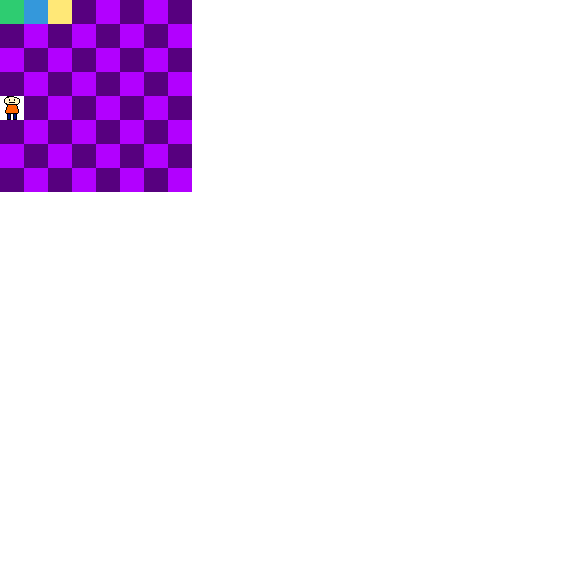
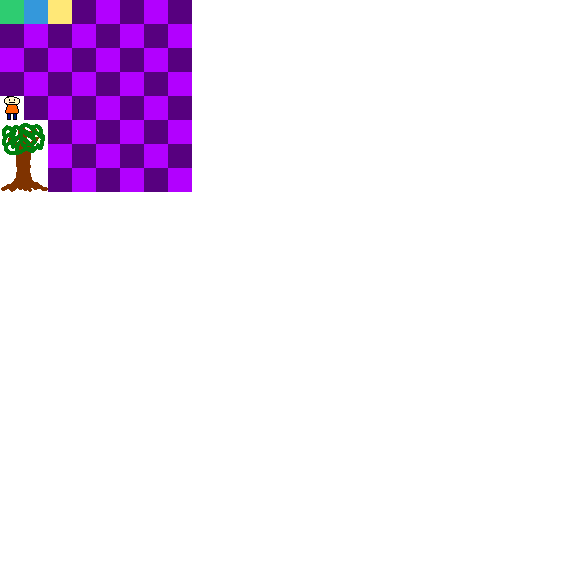
Add tree and depth sorting

Changed region(s): [[0.0, 0.1875, 0.0938, 0.3438]]

diff --git a/LD30/Game.cs b/LD30/Game.cs
@@ -21,14 +21,14 @@ namespace LD30
         public const int TilemapScale = 3;
         public const int TileSize = TilemapSize * TilemapScale;
 
-        List<GameObject> gameObjects = new List<GameObject>();
+        SortedDictionary<int, List<GameObject>> gameObjects = new SortedDictionary<int, List<GameObject>>();
         OverWorld overWorld;
         Player player;
 
         public Game()
             : base(null)
         {
-            MainWindow = new RenderWindow(new VideoMode(1024, 768), "LD30", Styles.Close, new ContextSettings() { AntialiasingLevel = 0 });
+            MainWindow = new RenderWindow(new VideoMode(1600, 900), "LD30", Styles.Close, new ContextSettings() { AntialiasingLevel = 0 });
         }
 
         public Game Init()
@@ -36,18 +36,27 @@ namespace LD30
             ResourceManager.LoadResource<Image>("assets/tilemap.png", "tilemapImg");
             ResourceManager.DeriveResource<Image, Texture>("tilemapImg", "tilemapTex", s => new Texture(s));
             ResourceManager.DeriveResource<Texture, Sprite>("tilemapTex", "playerSpr", s => Utility.CreateSubSprite(s, TilemapSize, TilemapSize, 0, 4));
+            ResourceManager.DeriveResource<Texture, Sprite>("tilemapTex", "treeSpr", s => Utility.CreateSubSprite(s, TilemapSize, TilemapSize, 0, 5, 2, 3));
 
             ResourceManager.LoadResource<Image>("assets/overworld.png", "overworldImg");
 
             overWorld = new OverWorld(this, ResourceManager.GetResource<Image>("overworldImg"));
-            gameObjects.Add(overWorld);
+            Add(overWorld);
 
             player = new Player(this, ResourceManager.GetResource<Sprite>("playerSpr"));
-            gameObjects.Add(player);
+            Add(player, 1);
 
             player.Position = overWorld.SpawnPosition;
 
             return this;
+        }
+
+        public void Add(GameObject obj, int layer = 0)
+        {
+            if (!gameObjects.ContainsKey(layer))
+                gameObjects.Add(layer, new List<GameObject>());
+
+            gameObjects[layer].Add(obj);
         }
 
         public void Run()
@@ -72,17 +81,36 @@ namespace LD30
 
         public override void Update(float dt)
         {
-            foreach (var obj in gameObjects)
+            foreach (var pair in gameObjects)
             {
-                obj.Update(dt);
+                foreach (var obj in pair.Value)
+                {
+                    obj.Update(dt);
+                }
+            }
+
+            var color = overWorld.GetColorAtWorldPosition(player.WorldCenter);
+            if (Utility.ColorEquals(color, Color.Blue))
+            {
+                player.SpeedModifier = 0.5f;
+                player.HalfVertical = true;
+            }
+            else
+            {
+                player.SpeedModifier = 1f;
+                player.HalfVertical = false;
             }
         }
 
         public override void Draw(RenderTarget target)
         {
-            foreach (var obj in gameObjects)
+            foreach (var pair in gameObjects)
             {
-                obj.Draw(target);
+                pair.Value.Sort(new Comparison<GameObject>((obj1, obj2) => (int)(obj1.Depth - obj2.Depth)));
+                foreach (var obj in pair.Value)
+                {
+                    obj.Draw(target);
+                }
             }
         }
     }

diff --git a/LD30/Player.cs b/LD30/Player.cs
@@ -2,6 +2,7 @@
 using SFML.Window;
 using System;
 using System.Collections.Generic;
+using System.Diagnostics;
 using System.Linq;
 using System.Text;
 using System.Threading.Tasks;
@@ -25,7 +26,51 @@ namespace LD30
             }
         }
 
+        public Vector2f WorldCenter
+        {
+            get
+            {
+                return Position + new Vector2f(Game.TileSize / 2f, Game.TileSize / 2f);
+            }
+        }
+
+        bool halfVertical = false;
+        public bool HalfVertical
+        {
+            get
+            {
+                return halfVertical;
+            }
+            set
+            {
+                if (halfVertical == value)
+                    return;
+
+                var rect = sprite.TextureRect;
+                if (value)
+                {
+                    rect.Height = Game.TilemapSize / 2;
+                }
+                else
+                {
+                    rect.Height = Game.TilemapSize;
+                }
+                sprite.TextureRect = rect;
+
+                halfVertical = value;
+            }
+        }
+
+        public override float Depth
+        {
+            get
+            {
+                return Position.Y + Game.TileSize;
+            }
+        }
+
         public float Speed = 1000f;
+        public float SpeedModifier = 1f;
 
         public Player(Game game, Sprite spr)
             : base(game)
@@ -46,8 +91,10 @@ namespace LD30
             if (Keyboard.IsKeyPressed(Keyboard.Key.D))
                 dir.X += 1f;
 
-            dir = dir.Normalize() * Speed * dt;
+            dir = dir.Normalize() * Speed * SpeedModifier * dt;
             Position += dir;
+
+            Debug.WriteLine(Position);
         }
 
         public override void Draw(RenderTarget target)

diff --git a/LD30/World.cs b/LD30/World.cs
@@ -2,6 +2,7 @@
 using SFML.Window;
 using System;
 using System.Collections.Generic;
+using System.Diagnostics;
 using System.Linq;
 using System.Text;
 using System.Threading.Tasks;
@@ -59,6 +60,28 @@ namespace LD30
             }
 
             throw new ArgumentException("Couldn't find the specified color");
+        }
+
+        protected List<Vector2f> findAllWorldPositionForColor(Color findColor)
+        {
+            var finds = new List<Vector2f>();
+            for (int x = 0; x < worldImage.Size.X; x++)
+            {
+                for (int y = 0; y < worldImage.Size.Y; y++)
+                {
+                    var color = worldImage.GetPixel((uint)x, (uint)y);
+                    if (Utility.ColorEquals(color, findColor))
+                        finds.Add(new Vector2f(x * Game.TileSize, y * Game.TileSize));
+                }
+            }
+            return finds;
+        }
+
+        public Color GetColorAtWorldPosition(Vector2f worldPos)
+        {
+            var localPos = worldPos * 1f / Game.TileSize;
+            var color = worldImage.GetPixel((uint)Math.Floor(localPos.X), (uint)Math.Floor(localPos.Y));
+            return color;
         }
 
         public override void Draw(RenderTarget target)

diff --git a/LD30/OverWorld.cs b/LD30/OverWorld.cs
@@ -16,11 +16,21 @@ namespace LD30
             : base(game, worldImage)
         {
             SpawnPosition = findFirstWorldPositionForColor(Color.Black);
+
+            foreach (var treePos in findAllWorldPositionForColor(new Color(127, 64, 0)))
+            {
+                var spr = new Sprite(ResourceManager.GetResource<Sprite>("treeSpr"));
+                spr.Scale = new Vector2f(Game.TilemapScale, Game.TilemapScale);
+                var tree = new Tree(game, spr);
+                tree.Position = treePos;
+               
+                game.Add(tree, 1);
+            }
         }
 
         protected override SFML.Window.Vector2f getTilemapPositionForColor(Color color)
         {
-            if (Utility.ColorEquals(color, Color.Green) || Utility.ColorEquals(color, Color.Black))
+            if (Utility.ColorEquals(color, Color.Green) || Utility.ColorEquals(color, Color.Black) || Utility.ColorEquals(color, new Color(127, 64, 0)))
                 return Utility.GetTilemapPositionForCoords(0, 0);
             else if (Utility.ColorEquals(color, Color.Blue))
                 return Utility.GetTilemapPositionForCoords(1, 0);

diff --git a/LD30/Tree.cs b/LD30/Tree.cs
@@ -1,0 +1,46 @@
+using SFML.Graphics;
+using SFML.Window;
+using System;
+using System.Collections.Generic;
+using System.Linq;
+using System.Text;
+using System.Threading.Tasks;
+
+namespace LD30
+{
+    class Tree : GameObject
+    {
+        Sprite sprite;
+
+        public Vector2f Position
+        {
+            get
+            {
+                return sprite.Position;
+            }
+            set
+            {
+                sprite.Position = value + new Vector2f(0f, -Game.TileSize * 3);
+            }
+        }
+
+        public override float Depth
+        {
+            get
+            {
+                return Position.Y + Game.TileSize * 3;
+            }
+        }
+
+        public Tree(Game game, Sprite spr)
+            : base(game)
+        {
+            this.sprite = spr;
+        }
+
+        public override void Draw(RenderTarget target)
+        {
+            target.Draw(sprite);
+        }
+    }
+}

diff --git a/LD30/Utility.cs b/LD30/Utility.cs
@@ -10,11 +10,11 @@ namespace LD30
 {
     static class Utility
     {
-        public static Sprite CreateSubSprite(Texture tex, int subWidth, int subHeight, int x, int y)
+        public static Sprite CreateSubSprite(Texture tex, int subWidth, int subHeight, int x, int y, int xTiles = 1, int yTiles = 1)
         {
             int texX = x * subWidth;
             int texY = y * subHeight;
-            return new Sprite(tex, new IntRect(texX, texY, subWidth, subHeight));
+            return new Sprite(tex, new IntRect(texX, texY, subWidth * xTiles, subHeight * yTiles));
         }
 
         public static bool ColorEquals(Color a, Color b)

diff --git a/LD30/GameObject.cs b/LD30/GameObject.cs
@@ -11,6 +11,14 @@ namespace LD30
     {
         protected Game game;
 
+        public virtual float Depth
+        {
+            get
+            {
+                return 0f;
+            }
+        }
+
         public GameObject(Game game)
         {
             this.game = game;
